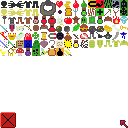
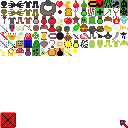
Clickable equip, open filtered inventory

Changed region(s): [[0.0, 0.0625, 0.3125, 0.125], [0.5625, 0.375, 0.5938, 0.4062]]

diff --git a/doorsofdoom/src/main/java/com/github/msx80/doorsofdoom/DoorsOfDoom.java b/doorsofdoom/src/main/java/com/github/msx80/doorsofdoom/DoorsOfDoom.java
@@ -3,6 +3,7 @@ package com.github.msx80.doorsofdoom;
 import java.util.ArrayList;
 import java.util.Arrays;
 import java.util.Collections;
+import java.util.EnumSet;
 import java.util.List;
 import java.util.Map.Entry;
 import java.util.Random;
@@ -49,8 +50,8 @@ public class DoorsOfDoom implements Game, GameInterface {
 	public static final int SPRITE_DAMAGE = 25;
 	public static final int BEE_DAMAGE = 10;
 	
-	public final int BUTTONS_X = 167; // 8 * 12 + 3;
-	public final int STATS_X = 97; // 8 * 12 + 3;
+	public static final int BUTTONS_X = 167; // 8 * 12 + 3;
+	public static final int STATS_X = 97; // 8 * 12 + 3;
 	
 	public final int EFFECTS_X = 142;
 	public final int EFFECTS_Y = 50;
@@ -426,7 +427,7 @@ public class DoorsOfDoom implements Game, GameInterface {
 			list.add(new Action("Open Door!", this::openDoor));
 			
 			list.add(new Action("Inventory", () -> {
-				currWidget  = new InventoryWidget(this, zoomsurf, p, 2, 2, 127, 92);
+				currWidget  = new InventoryWidget(null, this, zoomsurf, p, 2, 2, 127, 92);
 				doSound(14, 1f, 1f);
 			}));
 			
@@ -932,12 +933,21 @@ public class DoorsOfDoom implements Game, GameInterface {
 		p.print("Stats", STATS_X + 20, 2, 15, Align.LEFT);
 		// p.print("Equip:", STATS_X + 2, 8 + 32, 15, Align.LEFT);
 		
-		int cx = STATS_X+3;
-		int cy = 50;
-		drawEquip(cx, cy);
+		drawEquip();
 	}
 	
-	private void drawEquip(int cx, int cy) {
+	
+	EnumSet<Place> available = EnumSet.noneOf(Place.class);
+	private void drawEquip() {
+		
+		available.clear();
+		run.pg.inventory.keySet().forEach(i -> { 
+			if(i.equip != null) available.add(i.equip); 
+		});
+		
+		int cx = Place.EQUIP_START_X;
+		int cy = Place.EQUIP_START_Y;
+		
 		int ax = 0;
 		int ay = 0;
 		
@@ -960,9 +970,16 @@ public class DoorsOfDoom implements Game, GameInterface {
 			int sprite = p.defaultSprite;
 			Item i = run.pg.equip.get(p);
 			
-			if (i != null) sprite = i.sprite;
-			
+			if (i != null) 
+			{
+				sprite = i.sprite;
+			}
+			else
+			{
+				if(available.contains(p)) sprite = p.defaultSprite+16; // hightlight possible equip
+			}
 			this.p.spr(sprite,cx+p.x, cy+p.y, 8);
+			
 		}
 		
 		drawEffects();
@@ -1048,6 +1065,8 @@ public class DoorsOfDoom implements Game, GameInterface {
 		} else {
 			// if (m.btn[0] && !oldClick) {
 			
+			
+			
 			if(m.btnp(0) && step == OUTDOOR && m.x() <= 70 ) {
 				
 				if(inside(m, 30 ,50, 50, 65))
@@ -1064,9 +1083,24 @@ public class DoorsOfDoom implements Game, GameInterface {
 			
 			
 			if (!anims.isRunning()) {
-				// doSound(1, 1f, r.nextFloat()*1.5f+0.5f);
-				buttons.update(m);
+				
+					buttons.update(m);
 			}
+			
+			if(m.btnp(0) && step == OUTDOOR)
+			{
+				for (Place p : Place.values()) {
+					int px = Place.EQUIP_START_X+p.x;
+					int py = Place.EQUIP_START_Y+p.y;
+					if(inside(m, px,py, px+8, py+8))
+					{
+						
+						clickedEquip(p);
+					}
+				}
+			}
+
+			
 			// }
 			
 			//oldClick = m.btn[0];
@@ -1076,6 +1110,25 @@ public class DoorsOfDoom implements Game, GameInterface {
 		return true;
 	}
 	
+	private void clickedEquip(Place p) {
+		System.out.println("You clicked "+p.name());
+		
+		long n = run.pg.inventory.keySet().stream().filter(e -> e.equip == p).count();
+		
+		if(n == 0)
+		{
+			log.add(15, "You have nothing to equip on ", 14, p.name());
+		}
+		else
+		{
+			log.add(15, "Equip something on ", 14, p.name());
+			currWidget  = new InventoryWidget(e -> e.equip == p, this, zoomsurf, this.p, 2, 2, 127, 92);
+			buttons.down = false; // ugly hack to avoid double clicks
+			doSound(14, 1f, 1f);
+
+		}
+	}
+
 	private void clickOnEffect(int x, int y) {
 		int idx = y/9;
 		int numEffects = run.pg.effects.size();

diff --git a/doorsofdoom/src/main/java/com/github/msx80/doorsofdoom/InventoryWidget.java b/doorsofdoom/src/main/java/com/github/msx80/doorsofdoom/InventoryWidget.java
@@ -1,6 +1,7 @@
 package com.github.msx80.doorsofdoom;
 
 import java.util.List;
+import java.util.function.Predicate;
 import java.util.stream.Collectors;
 
 import com.github.msx80.doorsofdoom.model.GameInterface;
@@ -19,9 +20,12 @@ public class InventoryWidget extends RichWidget {
 	
 	private int btnx, btny, btnw, btnh;
 	private GameInterface g;
+	private Predicate<Item> filter;
 	
-	public InventoryWidget(GameInterface g, int zoomsurf, PrintUtils p, int x, int y, int w, int h) {
+	public InventoryWidget(Predicate<Item> filter, GameInterface g, int zoomsurf, PrintUtils p, int x, int y, int w, int h) {
 		super(p, x, y, w, h);
+		
+		this.filter = filter == null ? a -> true : filter;
 		
 		this.zoomsurf = zoomsurf;
 		this.g = g;
@@ -96,7 +100,7 @@ public class InventoryWidget extends RichWidget {
 			.keySet()
 			.stream()
 			.sorted((a, b) -> a.name.compareTo(b.name))
-			// .filter(i -> i.equip != null)
+			.filter(this.filter)
 			.map(i -> Richtext.with(i, -1, i.sprite, 15, " " + i.name, 14, " [" + pg.getInvCount(i) + "]"))
 			.collect(Collectors.toList());
 	}
@@ -119,7 +123,9 @@ public class InventoryWidget extends RichWidget {
 	@Override
 	protected boolean clickedOutside(int x, int y) {
 		if (x >= 222 && y <= 16) {
+			System.out.println("Exiting, "+((DoorsOfDoom) g).buttons.down);
 			g.doSound(18, 1f, 1f);
+			g.refreshCommands();
 			return false;
 		}
 		

diff --git a/doorsofdoom/src/main/java/com/github/msx80/doorsofdoom/model/Place.java b/doorsofdoom/src/main/java/com/github/msx80/doorsofdoom/model/Place.java
@@ -1,6 +1,11 @@
 package com.github.msx80.doorsofdoom.model;
 
+import com.github.msx80.doorsofdoom.DoorsOfDoom;
+
 public enum Place {
+	
+	
+	
 	Left(2, 18, 257), 
 	Right(30, 18, 258), 
 	Head(16, 2, 256), 
@@ -10,6 +15,10 @@ public enum Place {
 	public int x;
 	public int y;
 	public int defaultSprite;
+	
+	public static final int EQUIP_START_X = DoorsOfDoom.STATS_X+3;
+	public static final int EQUIP_START_Y = 50;
+	
 	
 	private Place(int x, int y, int defaultSprite) {
 		this.x = x;
